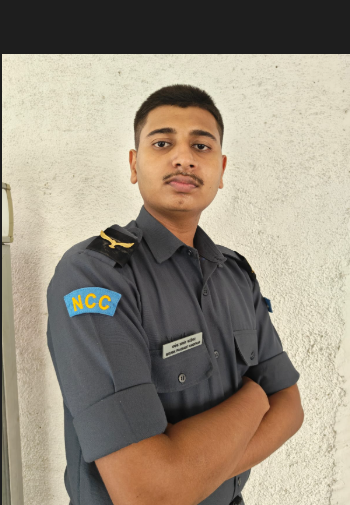
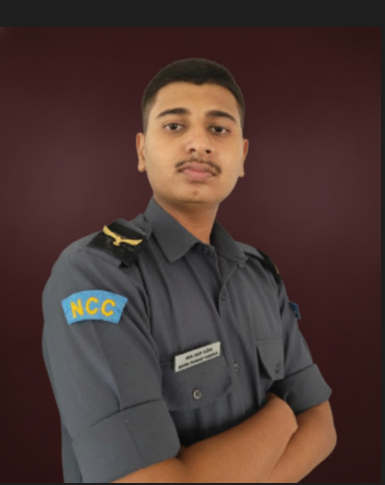
fixed the carosal at hero section and the images in team page

diff --git a/script.js b/script.js
@@ -107,3 +107,40 @@ document.addEventListener("DOMContentLoaded", function () {
         });
     }
 });
+
+// Carousel initializer: auto-advance slides and wire up dots
+document.addEventListener('DOMContentLoaded', function () {
+    const slides = document.querySelectorAll('.carousel-slide');
+    const dots = document.querySelectorAll('.dot');
+    let current = 0;
+    let timer = null;
+
+    function showSlide(index) {
+        if (!slides.length || !dots.length) return;
+        slides.forEach((slide, i) => slide.classList.toggle('active', i === index));
+        dots.forEach((dot, i) => dot.classList.toggle('active', i === index));
+        current = index;
+    }
+
+    function nextSlide() {
+        const next = (current + 1) % slides.length;
+        showSlide(next);
+    }
+
+    function startCarousel() {
+        if (timer) clearInterval(timer);
+        timer = setInterval(nextSlide, 4000);
+    }
+
+    if (slides.length && dots.length) {
+        showSlide(0);
+        startCarousel();
+
+        dots.forEach((dot, i) => {
+            dot.addEventListener('click', () => {
+                showSlide(i);
+                startCarousel();
+            });
+        });
+    }
+});
